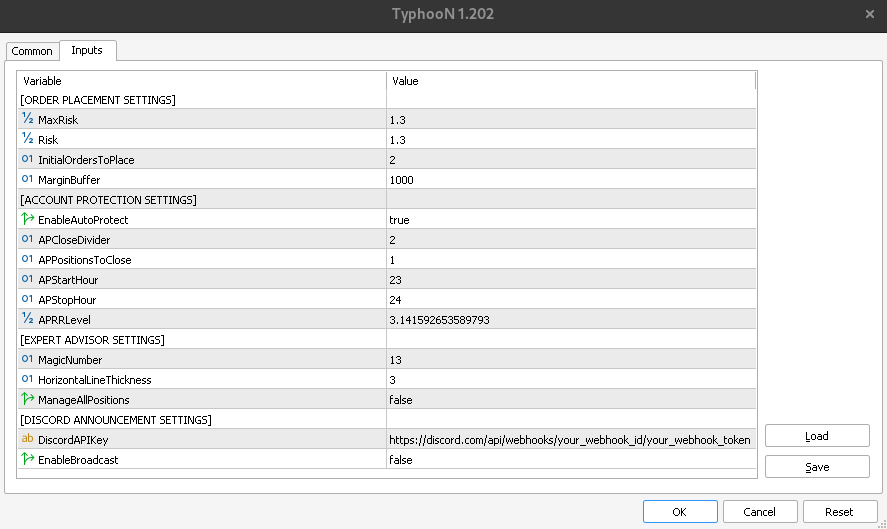
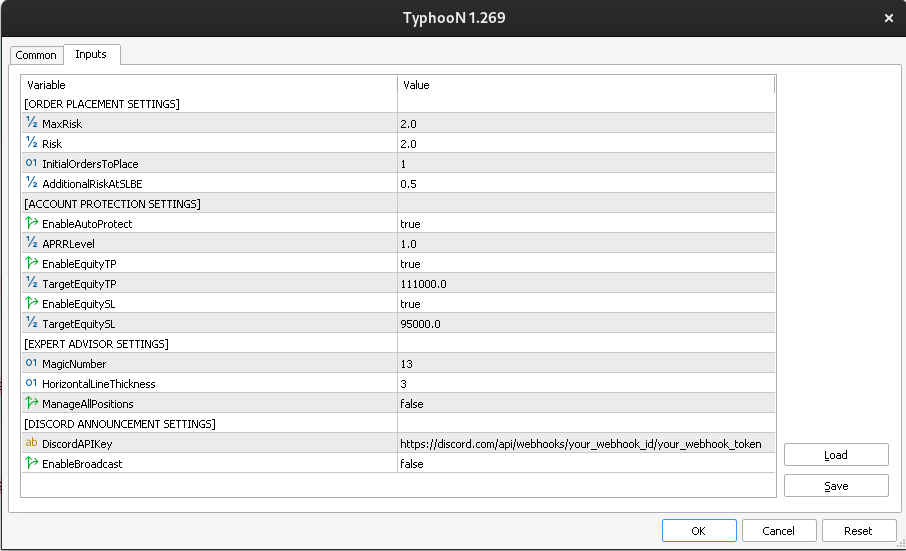
Update README.md and Expert Panel image.  Add info about new supporting indicators, and Risk Management EA features in README.

Changed region(s): [[0.0, 0.0, 1.0, 1.0], [0.9741, 0.0, 1.0, 0.0302]]

diff --git a/README.md b/README.md
@@ -1,5 +1,5 @@
 # Discord Market Wizardry Community
-- Join my Discord community for support with my EA and indicators, and also share trading ideas at https://discord.gg/mrhzvEh429
+- Join my Discord community for support with my EA and indicators, and also share trading ideas at http://marketwizardry.info/
 
 # TyphooN's MQL5-Risk_Management_System (Expert)
 ![Expert_Panel](Images/Expert_Panel.png)
@@ -21,10 +21,11 @@
 
 - EnableAutoProtect will place stop loss(es) at break even when RR passes AutoProtectRRLevel and risk > 0.  This will only happen once per market, and will not happen again if SL is set to break even on any position for that symbol.  (Default: false)
 - APCloseDivider: The number of positions that have to be open in order for trades to automatically take profit on APPositionsToClose position(s), and set the rest to break even stop loss.
-- APPositionsToClose: The number of positions to close in profit when AutoProtect is triggered.
-- APStartHour: The server hour when AutoProtect can start to be active.  By default it is active from 23 -> 24 server time (last 4 hour candlestick of the day).  Can be set to 0 to start at the beginning of the day.
-- APStopHour: The server hour when AutoProtect can stops being active.  By default it is active from 20 -> 24 server time (last 4 hour candlestick of the day).  Can be set to 24 to be active until the end of the day.
 - AutoProtectRRLevel is the Reward:Risk level that will trigger AutoProtect.
+- EnableEquityTP: Will close all open positions on the account when Equity >= TargetEquityTP.  Do not use this feature in Default template or on more than 1 chart.
+- TargetEquityTP: The Equity value of the account that EquityTP will be triggered by.
+- EnableEquitySL: Will close all open positions on the account when Equity < TargetEquitySL.  Do not use this feature in Default template or on more than 1 chart.
+- TargetEquitySL: The Equity value of the account that EquitySL will be triggered by.
 
 ### EXPERT ADVISOR SETTINGS
 - MagicNumber: Can be set to anything the user wants, but this expert will only modify trades/positions that match the MagicNumber on the chart.
@@ -64,7 +65,7 @@
   - 100/200: 100/200 SMA cross.
   - 20/50: 20/50 SMA cross.
   - 10/20: 10/20 SMA cross.
-- Bear Power and Bull Power are based on a scoring system which scores several SMA crossovers across all timeframes M1 -> W1 (Total Power is always 100 for both LTF and HTF).  The MA crossovers used are 200 SMA (price above or below the MA line), Death/Golden Cross (50/200 SMA), 100/200 SMA cross, 20/50 SMA cross, and 10/20 SMA cross.
+- Bear Power and Bull Power are based on a scoring system which scores several SMA crossovers across all timeframes M1 -> W1 (Total Power is always 100 for both LTF and HTF).  LTF Power is based on M1 -> M30 signals.  HTF Power is based on H1 -> W1 signals.  Each signal is worth 5 points currently (subject to change).
 
 ![MTF_MA_200SMA_Lines](Images/MTF_MA_200SMA_Lines.png)
 
@@ -126,9 +127,9 @@
 # Third Party Open Source Supporting Indicators
 - [Minions.BetterVolume](https://www.mql5.com/en/code/23479) - improved volume indicator.
 - [shved_supply_and_demand_v1.5](https://www.mql5.com/en/code/29395) - automatic supply and demand zone plotting.
-- SqKAMA
-- [Heiken Ashi Smoothed](https://www.forexfactory.com/thread/post/14170997#post14170997)
-
+- [KAMA (Kauffman's Adaptive Moving Average)](https://forex-station.com/download/file.php?id=3314561&sid=563944d8cfb302d8a712d2f9028ccbe4) - confirmation indicator.
+- [Ehlers' Mother of Adaptive Moving Averages](https://fxstill.com/indikators/the-mother-of-adaptive-moving-averages) - confirmation indicator.
+- [Heiken Ashi Smoothed](https://www.forexfactory.com/thread/post/14170997#post14170997) - confirmation indicator.
 
 # Usage
 
@@ -164,7 +165,7 @@ these TERMS OF USE and that you agree to be bound by such Terms of Use ("License
 
 # Copyright information
 
-Copyright © 2023 - Decapool.net - All Rights Reserved
+Copyright © 2023 - MarketWizardry.org - All Rights Reserved
 
 # Disclaimer and Risk Warnings
 
